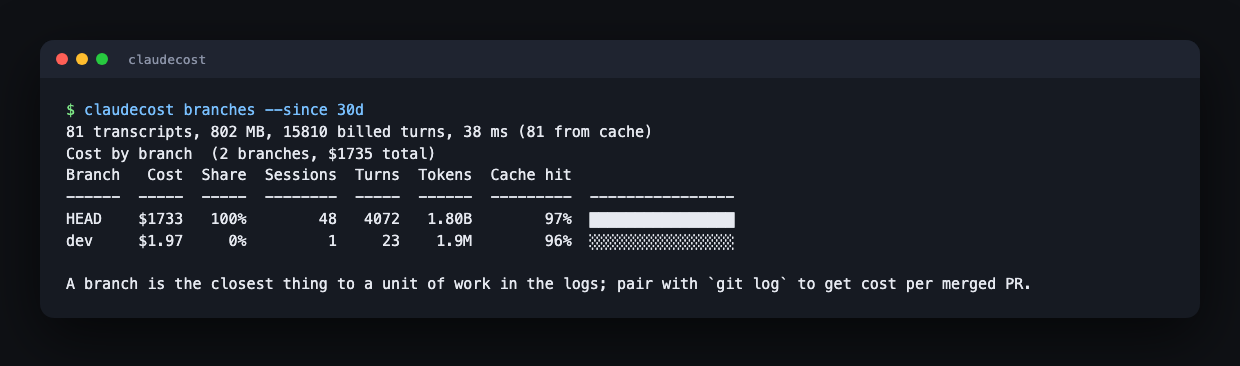
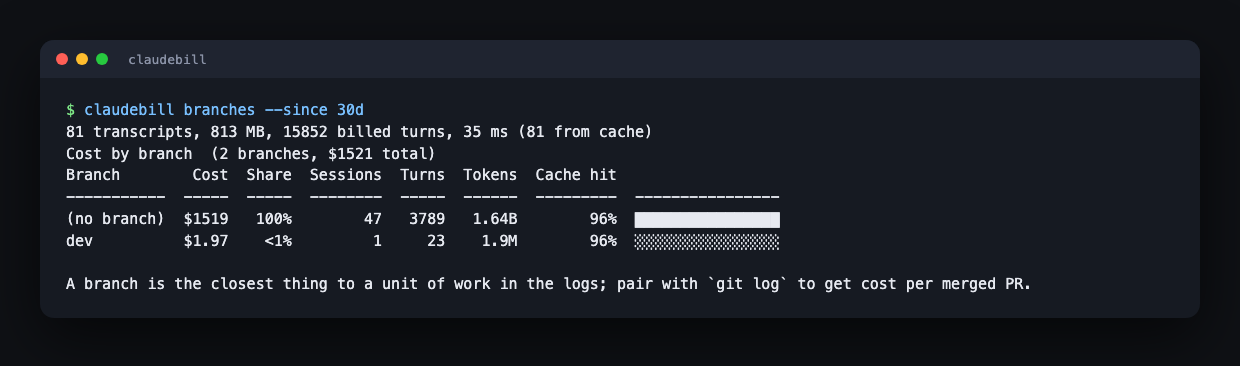
rename: claudecost is too close to an existing npm package; the tool is now claudebill
Claude-Session: https://claude.ai/code/session_01NFYuWe4Htifn6DCENV92CX

diff --git a/src/cli.ts b/src/cli.ts
@@ -33,13 +33,13 @@ interface Opts {
   version: boolean;
 }
 
-const HELP = `claudecost ${VERSION}: see what your Claude Code sessions actually cost.
+const HELP = `claudebill ${VERSION}: see what your Claude Code sessions actually cost.
 
 Reads the transcripts Claude Code already keeps under ~/.claude/projects.
 No install hooks, no network, no account. History is analyzed retroactively.
 
 USAGE
-  claudecost [command] [options]
+  claudebill [command] [options]
 
 COMMANDS
   summary            Totals for today, this week, this month, all time (default)
@@ -74,14 +74,14 @@ OPTIONS
   -v, --version      Version
 
 EXAMPLES
-  claudecost                              # what did Claude Code cost me?
-  claudecost sessions --since 7d          # which sessions burned the budget this week
-  claudecost branches --since month       # cost per branch this month
-  claudecost cache                        # is prompt caching earning its keep?
-  claudecost summary --plan max20         # API-equivalent spend vs the Max plan
-  claudecost live                         # watch a session's cost tick up
-  claudecost export --csv > turns.csv     # everything, for your own analysis
-  CLAUDE_CONFIG_DIR=/ci/home/.claude claudecost sessions --json   # headless / CI
+  claudebill                              # what did Claude Code cost me?
+  claudebill sessions --since 7d          # which sessions burned the budget this week
+  claudebill branches --since month       # cost per branch this month
+  claudebill cache                        # is prompt caching earning its keep?
+  claudebill summary --plan max20         # API-equivalent spend vs the Max plan
+  claudebill live                         # watch a session's cost tick up
+  claudebill export --csv > turns.csv     # everything, for your own analysis
+  CLAUDE_CONFIG_DIR=/ci/home/.claude claudebill sessions --json   # headless / CI
 
 Prices are Anthropic list prices (version ${PRICES_VERSION}); every report says so.
 Subscription plans bill differently: the numbers are what the same tokens would cost
@@ -279,9 +279,9 @@ function cmdSummary(turns: Turn[], tb: Record<string, ModelPrice>, _args: string
     console.log(dim("  Subscription plans meter usage in 5-hour windows, not dollars; this is what the same tokens would have cost on the API."));
   }
   const cacheSaved = cacheSavings(turns, tb);
-  if (cacheSaved > 0) console.log("\n" + `Prompt caching saved you about ${green(money(cacheSaved))} all time. ` + dim("Run `claudecost cache` for the breakdown."));
+  if (cacheSaved > 0) console.log("\n" + `Prompt caching saved you about ${green(money(cacheSaved))} all time. ` + dim("Run `claudebill cache` for the breakdown."));
   console.log(unpricedNote(all.unpricedModels));
-  console.log(dim(`\nTop: claudecost sessions --since 7d   |   Per branch: claudecost branches   |   Live: claudecost live`));
+  console.log(dim(`\nTop: claudebill sessions --since 7d   |   Per branch: claudebill branches   |   Live: claudebill live`));
   return 0;
 }
 
@@ -335,7 +335,7 @@ function cmdSessions(turns: Turn[], tb: Record<string, ModelPrice>, _args: strin
   const all = totals(turns, tb);
   console.log(bold(`${sessions.length} sessions, ${money(all.cost)} API-equivalent`) + dim(` (showing ${shown.length}, sorted by ${opts.sort})`));
   console.log(table(["Session", "Project", "Branch", "Started", "!Dur", "!Turns", "!Tokens", "!Cache", "!Cost"], shown.map((s) => [s.sessionId.slice(0, 8), truncate(s.project, 26), truncate(s.branches[0] || "-", 18), shortDate(s.firstTs), minutes(s.durationMin), String(s.turns), tokens(s.totalTokens), pct(s.cacheHitRate), money(s.cost)])));
-  console.log(dim("\nDetail: claudecost session <id>"));
+  console.log(dim("\nDetail: claudebill session <id>"));
   console.log(unpricedNote(all.unpricedModels));
   return 0;
 }
@@ -343,7 +343,7 @@ function cmdSessions(turns: Turn[], tb: Record<string, ModelPrice>, _args: strin
 function cmdSession(turns: Turn[], tb: Record<string, ModelPrice>, args: string[], opts: Opts): number {
   const id = args[0];
   if (!id) {
-    console.error(red("error: session <id> needs a session id (or its first characters); list them with `claudecost sessions`"));
+    console.error(red("error: session <id> needs a session id (or its first characters); list them with `claudebill sessions`"));
     return 2;
   }
   const matches = [...new Set(turns.filter((t) => t.sessionId.startsWith(id)).map((t) => t.sessionId))];

diff --git a/src/scan.ts b/src/scan.ts
@@ -33,7 +33,7 @@ export function defaultClaudeDir(): string {
 
 function cacheRoot(): string {
   const base = process.env.XDG_CACHE_HOME || join(homedir(), ".cache");
-  return join(base, "claudecost", `index-v${CACHE_SCHEMA}`);
+  return join(base, "claudebill", `index-v${CACHE_SCHEMA}`);
 }
 
 interface CacheEntry {

diff --git a/README.md b/README.md
@@ -1,8 +1,8 @@
-# claudecost
+# claudebill
 
 **See what your Claude Code sessions actually cost.**
 
-Claude Code already writes a transcript of every session to your disk, with the exact token counts the API billed. `claudecost` reads those files and tells you where the money went: by session, by project, by git branch, by model, by day, and how much prompt caching saved you.
+Claude Code already writes a transcript of every session to your disk, with the exact token counts the API billed. `claudebill` reads those files and tells you where the money went: by session, by project, by git branch, by model, by day, and how much prompt caching saved you.
 
 - **Retroactive.** Analyzes the history you already have, back to your first session. Nothing to install first, nothing to hook.
 - **Offline and private.** Reads local files, never makes a network request, sends nothing anywhere.
@@ -11,7 +11,7 @@ Claude Code already writes a transcript of every session to your disk, with the 
 - **Honest pricing.** Every report is stamped with the price-table version it used, so a future repricing can never quietly rewrite last month's number.
 
 ```
-$ claudecost
+$ claudebill
 Claude Code spend (API-equivalent, prices 2026-09-10)
 Window         Cost  Sessions  Turns  Tokens  Cache hit
 ------------  -----  --------  -----  ------  ---------
@@ -32,8 +32,8 @@ claude-opus-4-8    $649     9%    993        92%  ██░░░░░░░░
 ## Install
 
 ```bash
-npx claudecost            # run without installing
-npm install -g claudecost # or install globally
+npx claudebill            # run without installing
+npm install -g claudebill # or install globally
 ```
 
 Requires Node 18 or newer. macOS, Linux, and Windows.
@@ -42,17 +42,17 @@ Requires Node 18 or newer. macOS, Linux, and Windows.
 
 | Command | What you get |
 |---|---|
-| `claudecost` | Totals for today, this week, this month, and all time, plus a per-model breakdown |
-| `claudecost sessions --since 7d` | Sessions ranked by cost: which one burned the budget |
-| `claudecost session <id>` | One session turn by turn, with the most expensive turns called out |
-| `claudecost projects` | Cost per project directory |
-| `claudecost branches --since month` | Cost per git branch, the closest thing to cost per unit of work |
-| `claudecost models` | Cost per model with the rates applied |
-| `claudecost daily` | Day-by-day spend with a sparkline |
-| `claudecost cache` | Cache hit rate, what caching saved, and the sessions where it fell apart |
-| `claudecost live` | Follow the newest session and watch its cost tick up |
-| `claudecost prices` | The price table this build uses |
-| `claudecost export --csv` | Every billed turn, for your own spreadsheet or warehouse |
+| `claudebill` | Totals for today, this week, this month, and all time, plus a per-model breakdown |
+| `claudebill sessions --since 7d` | Sessions ranked by cost: which one burned the budget |
+| `claudebill session <id>` | One session turn by turn, with the most expensive turns called out |
+| `claudebill projects` | Cost per project directory |
+| `claudebill branches --since month` | Cost per git branch, the closest thing to cost per unit of work |
+| `claudebill models` | Cost per model with the rates applied |
+| `claudebill daily` | Day-by-day spend with a sparkline |
+| `claudebill cache` | Cache hit rate, what caching saved, and the sessions where it fell apart |
+| `claudebill live` | Follow the newest session and watch its cost tick up |
+| `claudebill prices` | The price table this build uses |
+| `claudebill export --csv` | Every billed turn, for your own spreadsheet or warehouse |
 
 Filters work on every command: `--since 24h|7d|2w|1mo|today|month|<date>`, `--until`, `--project <text>`, `--branch <text>`, `--model <text>`, `--sidechain include|only|exclude` (subagent turns), `--limit`, `--sort cost|tokens|time|cache`.
 
@@ -60,29 +60,29 @@ Filters work on every command: `--since 24h|7d|2w|1mo|today|month|<date>`, `--un
 
 **"Can it analyze my old sessions?"** Yes. That is the whole point. It reads `~/.claude/projects/**/*.jsonl`, which Claude Code has been writing since your first session.
 
-**"Does it slow Claude Code down?"** No. It never runs during a session. It reads the transcript afterwards (or, with `claudecost live`, polls the file every two seconds).
+**"Does it slow Claude Code down?"** No. It never runs during a session. It reads the transcript afterwards (or, with `claudebill live`, polls the file every two seconds).
 
-**"I'm on a Max plan. Why does it show dollars?"** Subscriptions meter usage in five-hour windows, not dollars. `claudecost` shows what the same tokens would cost on the API, which is exactly the number you need to decide whether a plan pays off:
+**"I'm on a Max plan. Why does it show dollars?"** Subscriptions meter usage in five-hour windows, not dollars. `claudebill` shows what the same tokens would cost on the API, which is exactly the number you need to decide whether a plan pays off:
 
 ```bash
-claudecost summary --plan max20   # this month's API-equivalent spend vs $200
+claudebill summary --plan max20   # this month's API-equivalent spend vs $200
 ```
 
 **"What about CI or headless runs?"** Claude Code writes the same transcripts there. Point at that machine's config directory:
 
 ```bash
-CLAUDE_CONFIG_DIR=/home/ci/.claude claudecost sessions --json
-claudecost sessions --dir /mnt/runner-home/.claude --csv
+CLAUDE_CONFIG_DIR=/home/ci/.claude claudebill sessions --json
+claudebill sessions --dir /mnt/runner-home/.claude --csv
 ```
 
 **"We route some work through a local or self-hosted model."** Unknown model ids are counted in tokens and listed as unpriced, never silently priced at zero. Give them a rate (or a zero rate) with a JSON file:
 
 ```bash
 echo '{"my-local-llama": {"input": 0, "output": 0, "label": "Local Llama"}}' > prices.json
-claudecost --prices prices.json
+claudebill --prices prices.json
 ```
 
-**"Is the cache earning its keep?"** `claudecost cache` splits cache writes (5-minute and 1-hour TTL) from cache reads, shows the hit rate, and lists the sessions with the worst hit rates so you can see what broke it (usually a long pause between turns).
+**"Is the cache earning its keep?"** `claudebill cache` splits cache writes (5-minute and 1-hour TTL) from cache reads, shows the hit rate, and lists the sessions with the worst hit rates so you can see what broke it (usually a long pause between turns).
 
 **"Will last month's number change when prices change?"** Not silently. Every report and every exported row carries `prices_version`. When the table is updated the version changes, and you can pin any historical rate with `--prices`.
 
@@ -90,9 +90,9 @@ claudecost --prices prices.json
 
 ## How it works
 
-Each assistant message in a transcript carries the API's `usage` block: fresh input tokens, output tokens, cache writes (with the 5-minute and 1-hour split), and cache reads. `claudecost` streams every transcript once, deduplicates the lines that repeat the same API response (one response can be logged as several content blocks), prices each turn with Anthropic's list prices for that model, and caches the parsed result per file. The first run over a few gigabytes of history takes a couple of seconds; later runs re-read only files that changed.
+Each assistant message in a transcript carries the API's `usage` block: fresh input tokens, output tokens, cache writes (with the 5-minute and 1-hour split), and cache reads. `claudebill` streams every transcript once, deduplicates the lines that repeat the same API response (one response can be logged as several content blocks), prices each turn with Anthropic's list prices for that model, and caches the parsed result per file. The first run over a few gigabytes of history takes a couple of seconds; later runs re-read only files that changed.
 
-Prices are USD per million tokens. Cache writes cost 1.25x input for the 5-minute TTL and 2x for the 1-hour TTL; cache reads cost 0.1x input (0.025x on Claude Fable 5.1). Dated snapshots and provider-prefixed ids (Bedrock, Vertex) resolve to the same rates. See `claudecost prices`.
+Prices are USD per million tokens. Cache writes cost 1.25x input for the 5-minute TTL and 2x for the 1-hour TTL; cache reads cost 0.1x input (0.025x on Claude Fable 5.1). Dated snapshots and provider-prefixed ids (Bedrock, Vertex) resolve to the same rates. See `claudebill prices`.
 
 ## Exit codes
 
@@ -100,10 +100,10 @@ Prices are USD per million tokens. Cache writes cost 1.25x input for the 5-minut
 
 ## Privacy
 
-`claudecost` reads files, prints text, and writes a small parse cache under `~/.cache/claudecost`. It never opens a network connection. Your transcripts are yours.
+`claudebill` reads files, prints text, and writes a small parse cache under `~/.cache/claudebill`. It never opens a network connection. Your transcripts are yours.
 
 ## License
 
 MIT. Copyright (c) 2026 [AI Tech Explore LLC](https://aitechexplore.com).
 
-Built by [AI Tech Explore LLC](https://aitechexplore.com). Source: [github.com/aitechexplore/claudecost](https://github.com/aitechexplore/claudecost).
+Built by [AI Tech Explore LLC](https://aitechexplore.com). Source: [github.com/aitechexplore/claudebill](https://github.com/aitechexplore/claudebill).

diff --git a/launch/product-hunt.md b/launch/product-hunt.md
@@ -1,13 +1,13 @@
-# Product Hunt launch kit: claudecost
+# Product Hunt launch kit: claudebill
 
 ## Name
-claudecost
+claudebill
 
 ## Tagline (60 chars max)
 See what your Claude Code sessions actually cost
 
 ## Description (260 chars max)
-Claude Code already logs every token it bills. claudecost reads those logs and shows cost per session, project, git branch, model, and day, plus what prompt caching saved you. Retroactive, offline, zero dependencies. npx claudecost.
+Claude Code already logs every token it bills. claudebill reads those logs and shows cost per session, project, git branch, model, and day, plus what prompt caching saved you. Retroactive, offline, zero dependencies. npx claudebill.
 
 ## Topics
 Developer Tools, Artificial Intelligence, Open Source, Productivity
@@ -17,7 +17,7 @@ Hi Product Hunt, Hassan here.
 
 Every Claude Code session writes a transcript to ~/.claude with the exact token counts the API billed, split into fresh input, output, cache writes, and cache reads. Nobody reads them. I wanted to know which of my sessions burned the budget, whether prompt caching was actually earning its keep, and what my Max plan would have cost on the API.
 
-So claudecost reads those transcripts. That is the whole trick:
+So claudebill reads those transcripts. That is the whole trick:
 
 - It is retroactive. It works on the history you already have, back to your first session. No hooks, nothing to install before you start.
 - It never touches the network. Local files in, text out.
@@ -25,20 +25,20 @@ So claudecost reads those transcripts. That is the whole trick:
 - It works headless. Point it at a CI runner's Claude config dir and use --json or --csv.
 - Every report is stamped with the price-table version, so a future price change can never quietly rewrite last month's number.
 
-npx claudecost
+npx claudebill
 
 It's MIT-licensed and a single dependency-free Node package. I'd love to hear which number you check first.
 
 ## Gallery / screenshot commands
-1. `claudecost` (the summary table)
-2. `claudecost sessions --since 7d`
-3. `claudecost cache`
-4. `claudecost branches --since month`
-5. `claudecost live` (animated GIF)
+1. `claudebill` (the summary table)
+2. `claudebill sessions --since 7d`
+3. `claudebill cache`
+4. `claudebill branches --since month`
+5. `claudebill live` (animated GIF)
 
 ## Launch checklist
 - [ ] `npm login`, then `npm publish` from the repo (already `prepublishOnly`-tested)
 - [ ] Make the GitHub repo public; add topics claude-code, anthropic, cost, cli
-- [x] Screenshots 1-4 rendered from real output in `launch/screenshots/` (summary, sessions, cache, branches, models). Still to do: the `claudecost live` GIF, and re-shoot any screenshot you want with your own data.
+- [x] Screenshots 1-4 rendered from real output in `launch/screenshots/` (summary, sessions, cache, branches, models). Still to do: the `claudebill live` GIF, and re-shoot any screenshot you want with your own data.
 - [ ] Post at 00:01 PT (Product Hunt's daily reset) on a Tuesday or Wednesday
 - [ ] Reply to every comment in the first 4 hours; questions people asked the last tool in this space: overhead (none), retroactive (yes), CI (yes, --dir), mixed local models (--prices), agent-to-agent (--sidechain), repricing (prices_version)

diff --git a/launch/social.md b/launch/social.md
@@ -3,15 +3,15 @@
 ## X / Twitter (launch)
 Your Claude Code transcripts already contain every token the API billed you. Nobody reads them.
 
-claudecost does: cost per session, project, git branch, model, day, and what prompt caching saved you. Retroactive, offline, zero deps.
+claudebill does: cost per session, project, git branch, model, day, and what prompt caching saved you. Retroactive, offline, zero deps.
 
-npx claudecost
+npx claudebill
 
 ## X / Twitter (thread hook)
 I ran it on my own machine: 68 sessions, 7 billion tokens, 98% cache hit rate, $7.5k API-equivalent. One session was $400. Here is what I learned about where Claude Code spends money. 🧵
 
 ## LinkedIn
-If your team uses Claude Code on a plan, you know the seat price. You probably can't say which sessions or which branches consumed the budget, or whether prompt caching is working. claudecost reads the transcripts Claude Code already keeps and answers exactly that, offline, in one command: npx claudecost
+If your team uses Claude Code on a plan, you know the seat price. You probably can't say which sessions or which branches consumed the budget, or whether prompt caching is working. claudebill reads the transcripts Claude Code already keeps and answers exactly that, offline, in one command: npx claudebill
 
 ## Hacker News (Show HN title)
-Show HN: claudecost, cost per session/branch/model from your local Claude Code transcripts
+Show HN: claudebill, cost per session/branch/model from your local Claude Code transcripts
